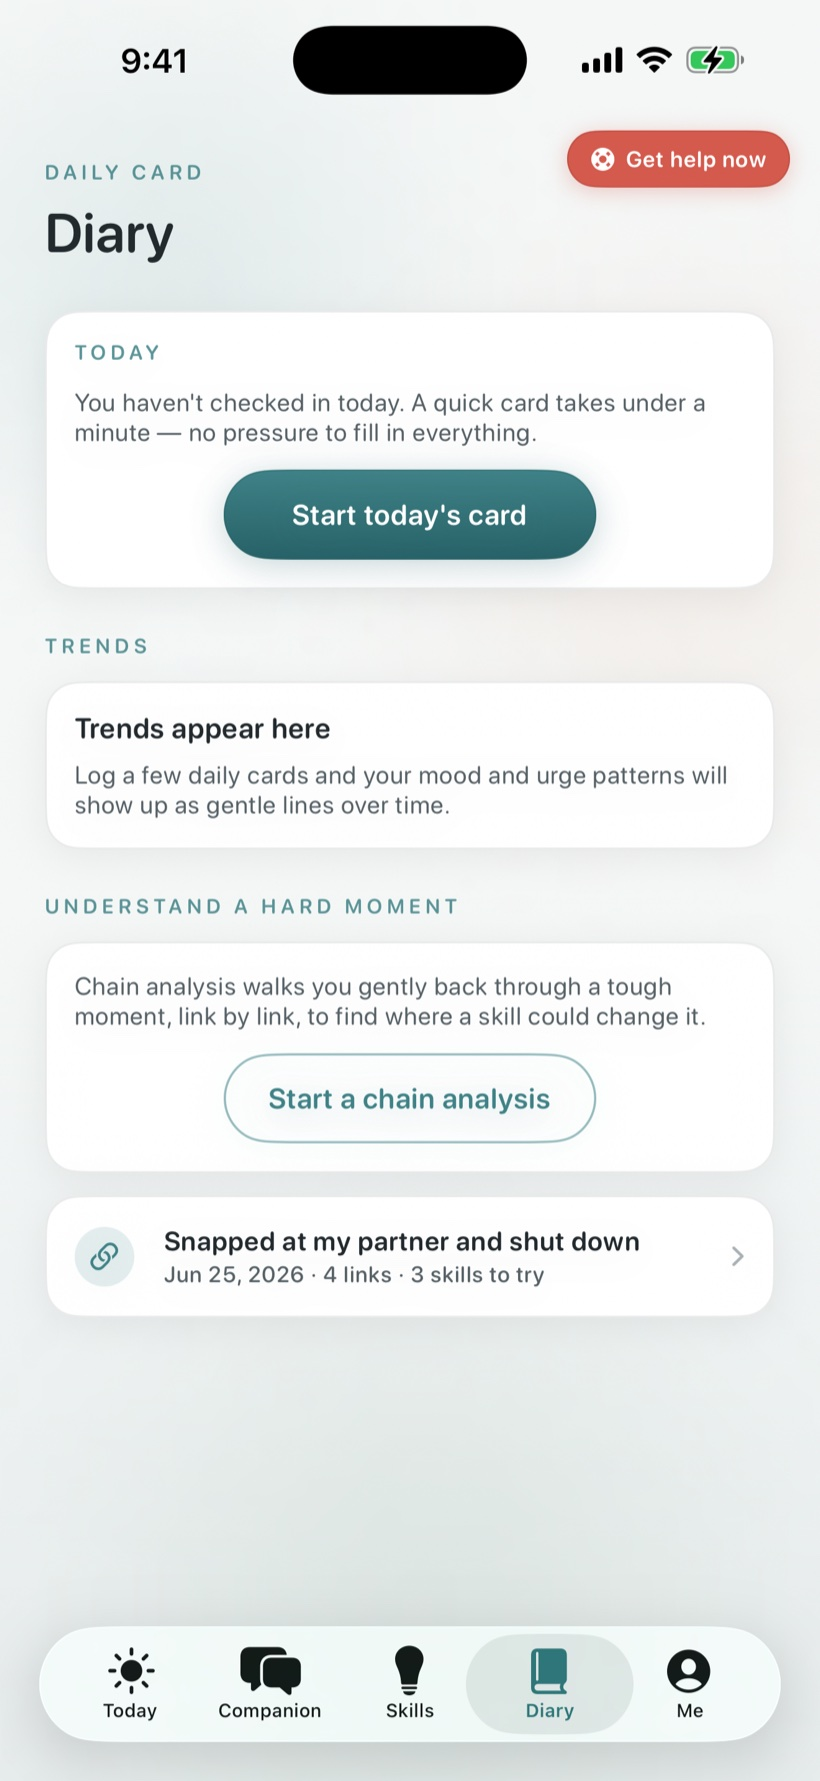
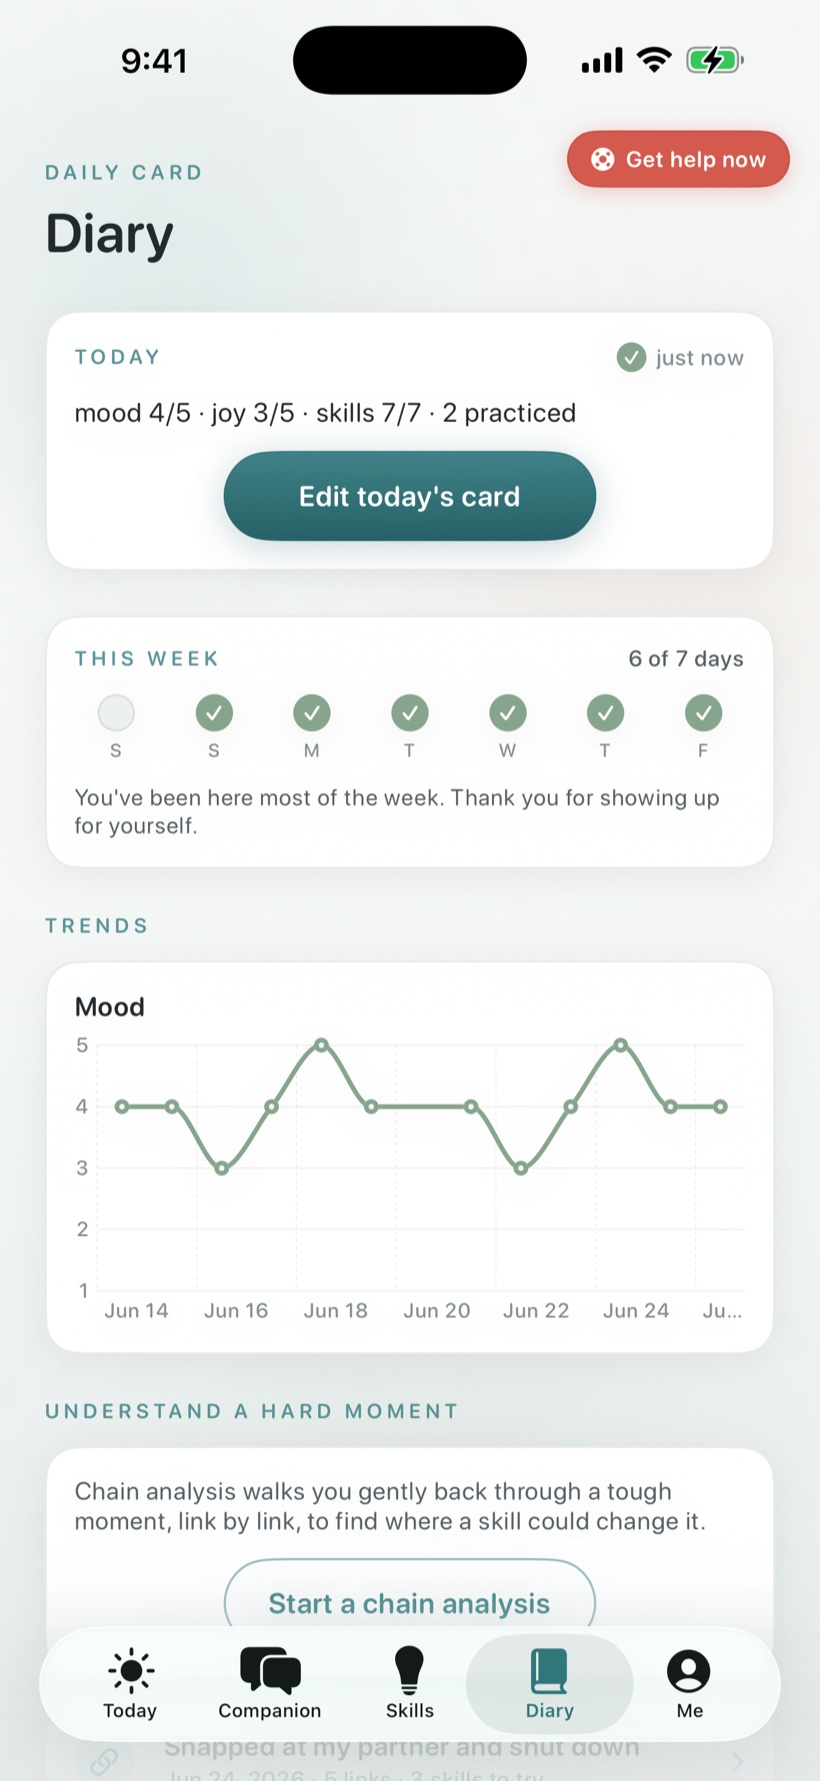
Show lived-in Today + Diary screenshots (demo data)
Recapture Today (light+dark) and Diary from the new -AnchorSeedDemo
build so they show a real, in-use account instead of empty first-run
states: a logged daily card, a 6-of-7 check-in week, and a gentle
mood trend line. Calm by design — SI/self-harm urges stay at 0.

diff --git a/index.html b/index.html
@@ -682,7 +682,7 @@
       <p class="lede" style="text-align:center; margin-left:auto; margin-right:auto;">Warm, plainspoken, and built for hard moments — not a clinical dashboard.</p>
       <div class="screens-grid">
         <div class="screen-card">
-          <div class="screen-frame"><img src="screenshots/01-today.jpg?v=20260626r" alt="Quietoak Today tab — a companion greeting and a one-minute check-in" loading="lazy"></div>
+          <div class="screen-frame"><img src="screenshots/01-today.jpg?v=20260626d" alt="Quietoak Today tab — a companion greeting and a one-minute check-in" loading="lazy"></div>
           <div class="screen-label"><strong>Today</strong>Your companion, every day</div>
         </div>
         <div class="screen-card">
@@ -694,7 +694,7 @@
           <div class="screen-label"><strong>Skills</strong>Real DBT skills, guided</div>
         </div>
         <div class="screen-card">
-          <div class="screen-frame"><img src="screenshots/04-diary.jpg?v=20260626r" alt="Quietoak diary card — mood and emotions in under a minute" loading="lazy"></div>
+          <div class="screen-frame"><img src="screenshots/04-diary.jpg?v=20260626d" alt="Quietoak diary card — mood and emotions in under a minute" loading="lazy"></div>
           <div class="screen-label"><strong>Diary</strong>A one-minute card</div>
         </div>
         <div class="screen-card">
@@ -760,7 +760,7 @@
       <p class="lede" style="text-align:center; max-width: 660px; margin: 0 auto 44px;">Quietoak follows your device's Light or Dark setting — a soft, low-glare night theme for late hours and hard nights. Never harsh, never a stark black void.</p>
       <div class="night-grid">
         <div class="night-card">
-          <div class="screen-frame"><img src="screenshots/dark-today.jpg?v=20260626r" alt="Quietoak Today screen in dark mode" loading="lazy"></div>
+          <div class="screen-frame"><img src="screenshots/dark-today.jpg?v=20260626d" alt="Quietoak Today screen in dark mode" loading="lazy"></div>
           <div class="label"><strong>Today</strong>Your companion, after dark</div>
         </div>
         <div class="night-card">